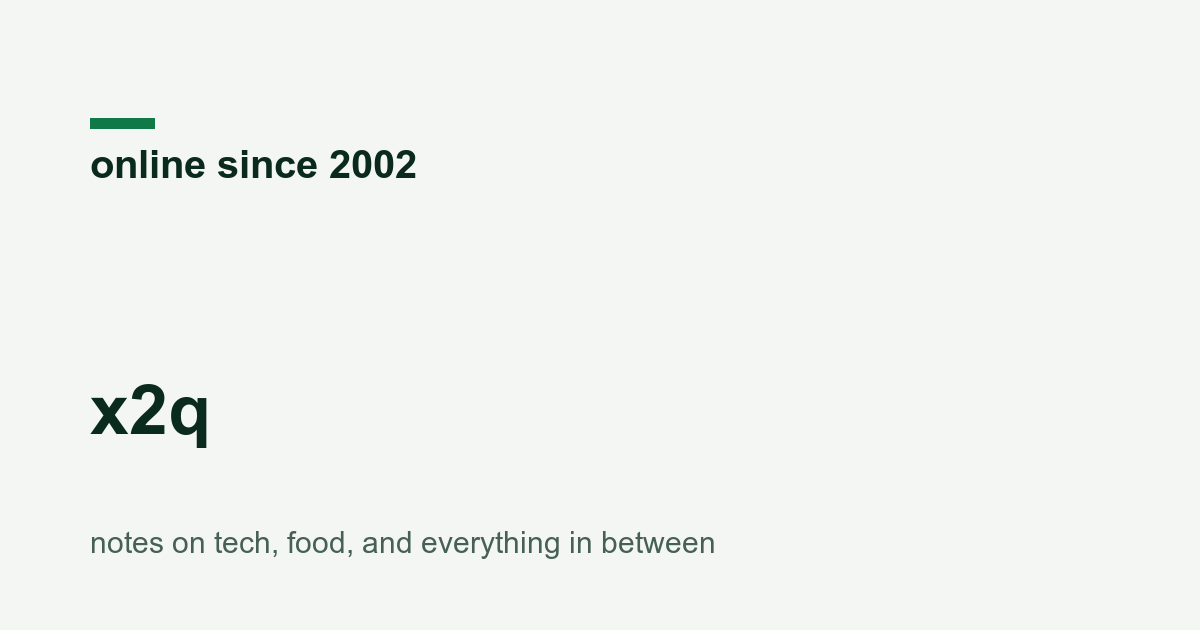
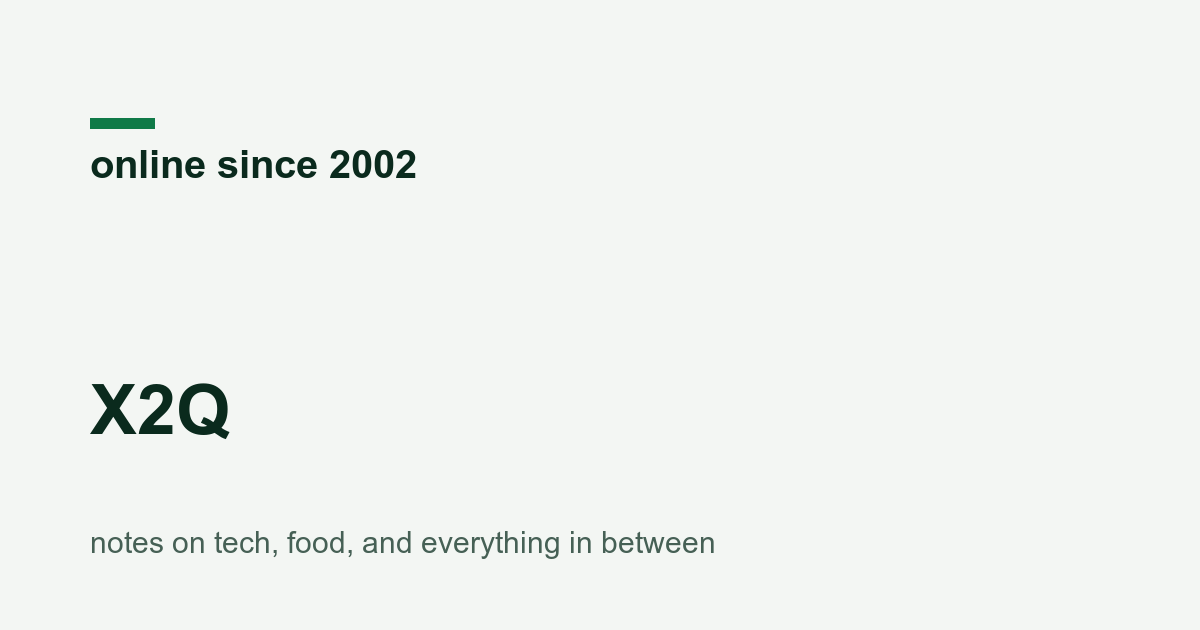
Standardize brand wordmark to X2Q across the whole design
Capitalize the brand mark everywhere it appears as text/logo — site title,
header wordmark, footer, JSON-LD alternateName, hero/intro/about copy, tag-page
intros, favicon (X2Q) + apple-touch-icon, and the home OG card. Domains, emails
and URLs (x2q.net, [email redacted], github.com/x2q) left lowercase.

Changed region(s): [[0.0617, 0.6032, 0.2158, 0.7238]]

diff --git a/templates/partials/about.html b/templates/partials/about.html
@@ -6,10 +6,10 @@
   </header>
   <div class="about-body">
     {% if lang == "da" %}
-    <p><strong>x2q</strong> startede i 2002 som en helt almindelig <code>~cc</code>-hjemmeside på universitetets server, mens jeg læste datalogi (stud.scient.) på Aalborg Universitet. Det var den klassiske studieblanding: noter om Linux, opskrivninger af semesterprojekter og hvad jeg ellers sad og rodede med.</p>
+    <p><strong>X2Q</strong> startede i 2002 som en helt almindelig <code>~cc</code>-hjemmeside på universitetets server, mens jeg læste datalogi (stud.scient.) på Aalborg Universitet. Det var den klassiske studieblanding: noter om Linux, opskrivninger af semesterprojekter og hvad jeg ellers sad og rodede med.</p>
     <p>Siden flyttede den væk fra universitetsserveren, gennem et par forskellige systemer og domæner, og blev til x2q.net — men vanen er den samme: noter til mit fremtidige jeg, udgivet i det åbne. Du kan stadig se <a href="{{ archive_url | safe }}" rel="nofollow noopener" target="_blank">den allerførste udgave fra <code>cs.auc.dk/~cc/</code> i Internet Archive</a>.</p>
     {% else %}
-    <p><strong>x2q</strong> started back in 2002 as a plain <code>~cc</code> homepage on the university server, while I was a computer-science student (stud.scient.) at Aalborg University. It was the usual student mix: Linux notes, write-ups of semester projects, and whatever I happened to be tinkering with.</p>
+    <p><strong>X2Q</strong> started back in 2002 as a plain <code>~cc</code> homepage on the university server, while I was a computer-science student (stud.scient.) at Aalborg University. It was the usual student mix: Linux notes, write-ups of semester projects, and whatever I happened to be tinkering with.</p>
     <p>Over the years it moved off the university server, through a few different engines and domains, and became x2q.net — but the habit never changed: notes to my future self, published in the open. You can still see <a href="{{ archive_url | safe }}" rel="nofollow noopener" target="_blank">the very first version at <code>cs.auc.dk/~cc/</code> in the Internet Archive</a>.</p>
     {% endif %}
   </div>

diff --git a/templates/partials/intro.html b/templates/partials/intro.html
@@ -14,9 +14,9 @@
   </h1>
   <p class="intro-lede">
     {% if lang == "da" %}
-      <strong>x2q</strong> er en personlig blog, der har været online siden {{ since }} — {{ years }} års noter om software, Linux, betalinger, hjemmeservere, madlavning og de projekter, der opstår undervejs.
+      <strong>X2Q</strong> er en personlig blog, der har været online siden {{ since }} — {{ years }} års noter om software, Linux, betalinger, hjemmeservere, madlavning og de projekter, der opstår undervejs.
     {% else %}
-      <strong>x2q</strong> is a personal blog that has been online since {{ since }} — {{ years }} years of notes on software, Linux, payments, home labs, cooking, and the side projects that keep appearing.
+      <strong>X2Q</strong> is a personal blog that has been online since {{ since }} — {{ years }} years of notes on software, Linux, payments, home labs, cooking, and the side projects that keep appearing.
     {% endif %}
   </p>
   <div class="intro-meta">

diff --git a/templates/taxonomy_list.html b/templates/taxonomy_list.html
@@ -7,9 +7,9 @@
   </header>
   <p class="intro-lede">
     {% if lang == "da" %}
-      Hvert indlæg på x2q er kategoriseret med emner — fra DNS og Let's Encrypt til Astro, AVIF og danske elpriser. Brug listen nedenfor til at browse efter teknologi, platform eller domæne.
+      Hvert indlæg på X2Q er kategoriseret med emner — fra DNS og Let's Encrypt til Astro, AVIF og danske elpriser. Brug listen nedenfor til at browse efter teknologi, platform eller domæne.
     {% else %}
-      Every post on x2q is tagged with topics — from DNS and Let's Encrypt to Astro, AVIF, and Danish electricity prices. Use the list below to browse by technology, platform, or domain.
+      Every post on X2Q is tagged with topics — from DNS and Let's Encrypt to Astro, AVIF, and Danish electricity prices. Use the list below to browse by technology, platform, or domain.
     {% endif %}
   </p>
   <ul class="tag-cloud">

diff --git a/templates/taxonomy_single.html b/templates/taxonomy_single.html
@@ -11,7 +11,7 @@
       {%- elif term.name == "security" or term.name == "sikkerhed" %}Noter om praktisk sikkerhed: kodeordsgendannelse, TLS-certifikater, SSH-nøgler og netværkssikkerhed — værktøjer og fremgangsmåder forklaret skridt for skridt.
       {%- elif term.name == "payments" or term.name == "betalinger" %}Noter om betalingskort og kortdata: BIN/IIN-opslag, 8-cifrede issuer-numre, 3-D Secure og hvordan kortnetværkene strukturerer et PAN.
       {%- elif term.name == "mysql" or term.name == "mariadb" %}MySQL- og MariaDB-noter: backup og gendannelse, vedligeholdelse, duplikatrydning og migrering — kommandoer der virker i produktion.
-      {%- else %}Indlæg på x2q med emnet <strong>{{ term.name }}</strong>. Opdateres i takt med, at nye indlæg publiceres.{%- endif -%}
+      {%- else %}Indlæg på X2Q med emnet <strong>{{ term.name }}</strong>. Opdateres i takt med, at nye indlæg publiceres.{%- endif -%}
     {%- else -%}
       {%- if term.name == "linux" %}Hands-on Linux notes from the command line — troubleshooting, filesystems, networking and server admin, written and tested across Debian, Ubuntu and macOS.
       {%- elif term.name == "security" %}Practical security notes: password recovery, TLS certificates, SSH keys and network security — tools and procedures explained step by step.
@@ -20,7 +20,7 @@
       {%- elif term.name == "bin" or term.name == "iin" %}Everything on BIN/IIN lookups — what the issuer identification number is, the 6-to-8-digit expansion, and why a 6-digit prefix is now ambiguous.
       {%- elif term.name == "mysql" or term.name == "mariadb" %}MySQL and MariaDB notes: backup and restore, maintenance, deduplication and migration — commands that hold up in production.
       {%- elif term.name == "openssl" or term.name == "tls" or term.name == "certificates" %}OpenSSL and TLS notes: inspecting and verifying certificates, CSRs, private keys and keystores from the command line.
-      {%- else %}Posts on x2q tagged <strong>{{ term.name }}</strong>. Updated as new posts are published.{%- endif -%}
+      {%- else %}Posts on X2Q tagged <strong>{{ term.name }}</strong>. Updated as new posts are published.{%- endif -%}
     {%- endif -%}
   </p>
   <ul class="post-list">

diff --git a/templates/partials/footer.html b/templates/partials/footer.html
@@ -1,6 +1,6 @@
 <footer class="site-footer">
   <div class="site-footer-inner">
-    <span>&copy; {{ config.extra.since }}&ndash;{{ now() | date(format="%Y") }} · x2q</span>
+    <span>&copy; {{ config.extra.since }}&ndash;{{ now() | date(format="%Y") }} · X2Q</span>
     <span>
       <a href="{{ get_url(path=config.feed_filenames[0] | default(value="atom.xml"), lang=lang) }}">RSS</a>
     </span>

diff --git a/templates/partials/head.html b/templates/partials/head.html
@@ -131,7 +131,7 @@
   "@context": "https://schema.org",
   "@type": "WebSite",
   "name": {{ config.title | json_encode | safe }},
-  "alternateName": "x2q",
+  "alternateName": "X2Q",
   "url": {{ config.base_url | json_encode | safe }},
   "description": {{ description | json_encode | safe }},
   "inLanguage": {{ lang | json_encode | safe }},

diff --git a/templates/partials/header.html b/templates/partials/header.html
@@ -6,7 +6,7 @@
 {%- endif -%}
 <header class="site-header">
   <div class="site-header-inner">
-    <a href="{{ home_href | safe }}" class="site-brand">x<em>2</em>q</a>
+    <a href="{{ home_href | safe }}" class="site-brand">X<em>2</em>Q</a>
     <div class="site-nav-right">
       <nav class="lang-switch" aria-label="Language">
         {%- for code in config.extra.all_languages -%}

diff --git a/scripts/social_cards.py b/scripts/social_cards.py
@@ -93,7 +93,7 @@ def main():
         print(f"  cards/{slug}.png")
 
     # site-wide fallback for home, sections, tag pages
-    render("index", "x2q", TAGLINE, wordmark="online since 2002")
+    render("index", "X2Q", TAGLINE, wordmark="online since 2002")
     print("  cards/index.png")
     print(f"Done: {len(seen) + 1} cards.")
 

diff --git a/content/_index.da.md b/content/_index.da.md
@@ -1,5 +1,5 @@
 +++
-title = "x2q"
+title = "X2Q"
 sort_by = "date"
 template = "index.html"
 +++

diff --git a/content/_index.md b/content/_index.md
@@ -1,5 +1,5 @@
 +++
-title = "x2q"
+title = "X2Q"
 sort_by = "date"
 template = "index.html"
 +++